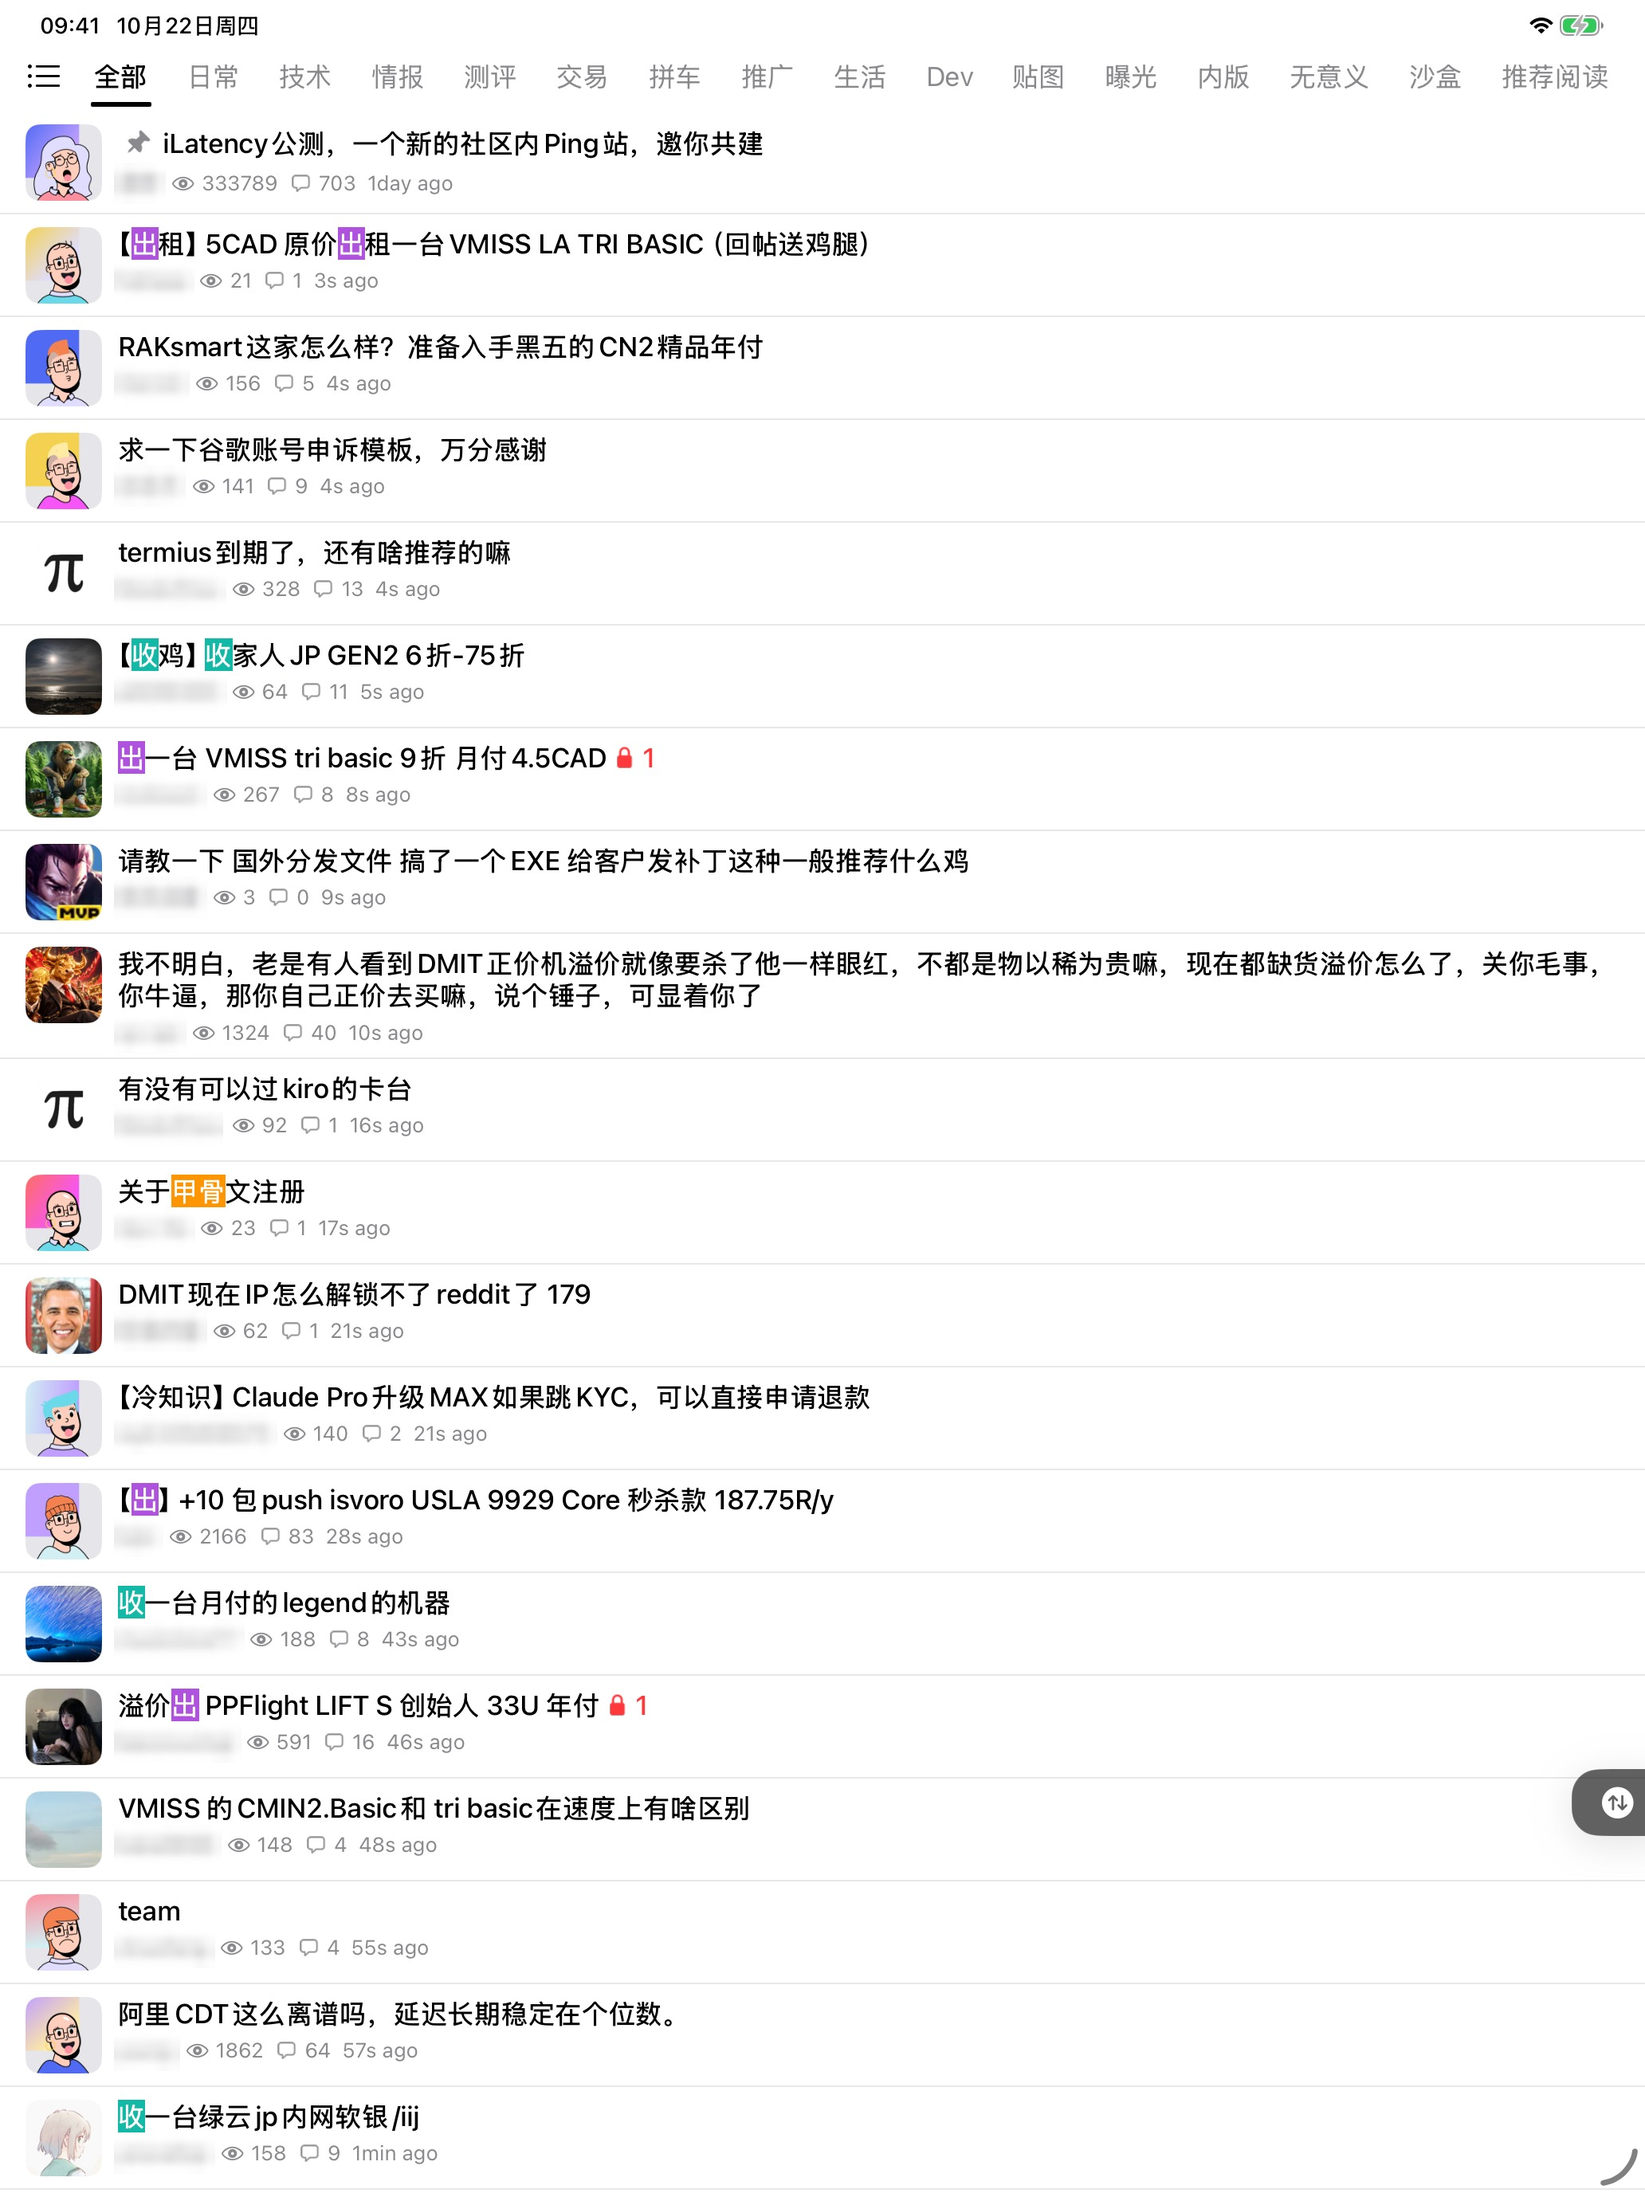
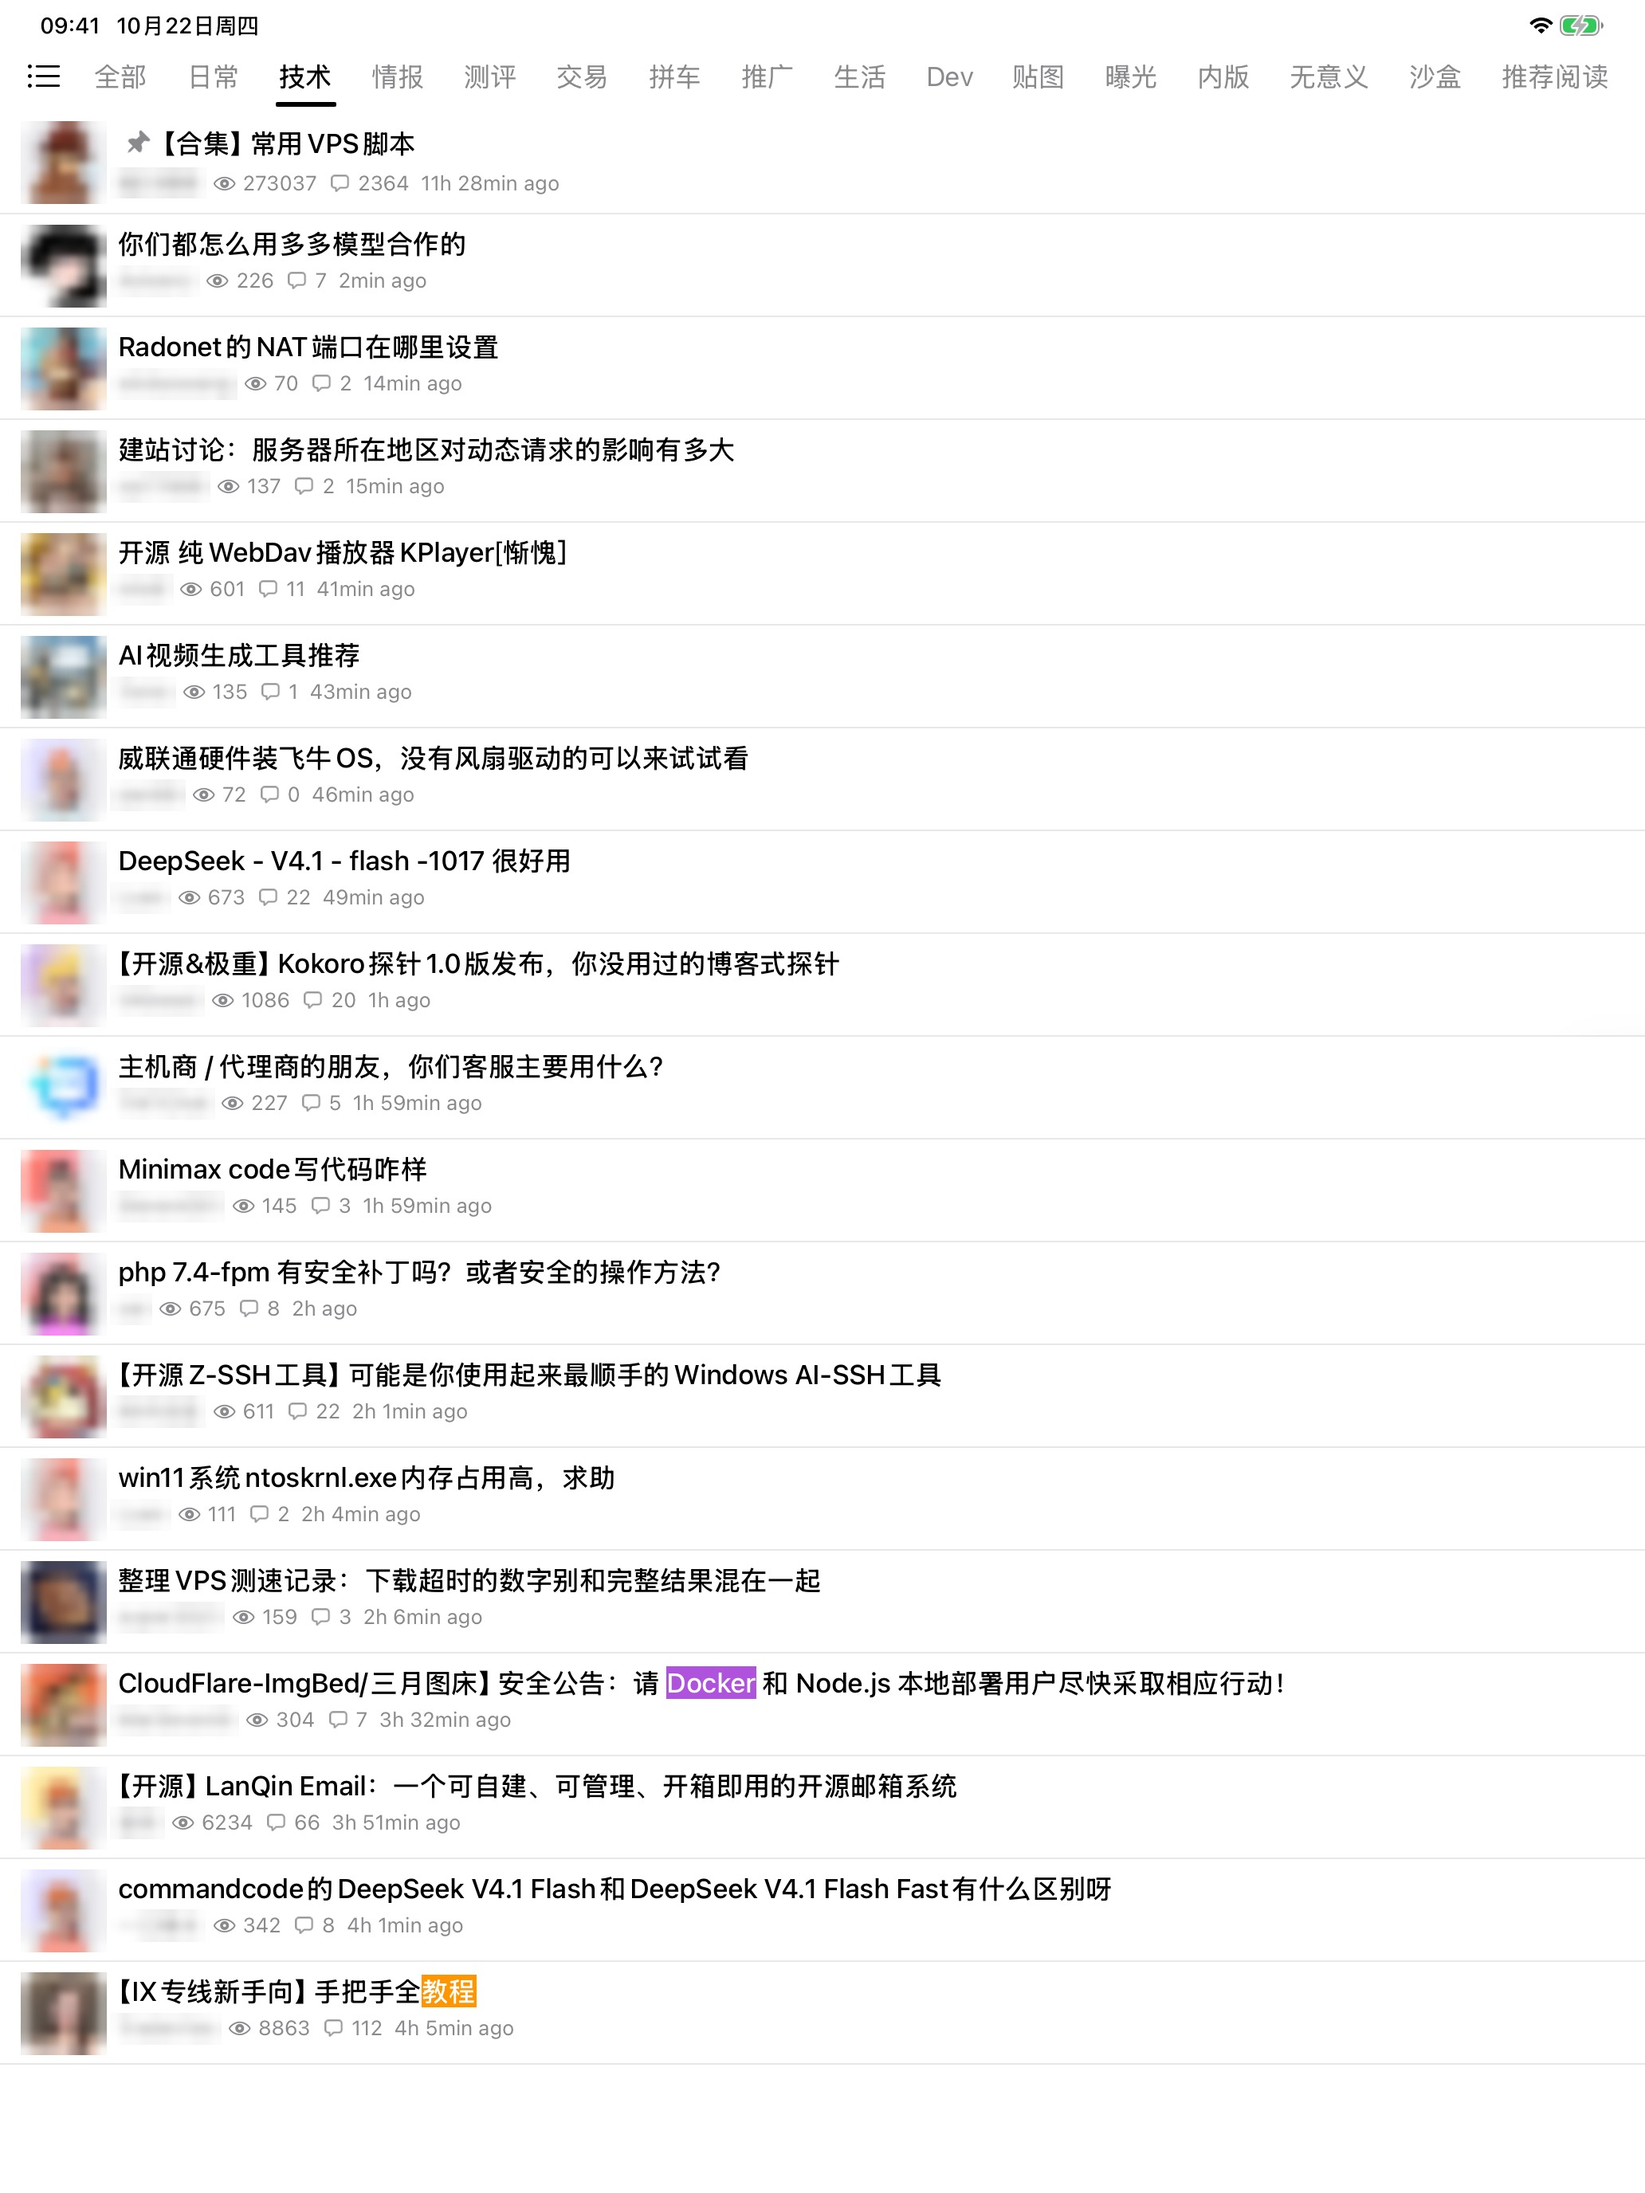
fix(appstore): 截图改用干净内容并给头像打码

diff --git a/tools/appstore-screenshots/compose.py b/tools/appstore-screenshots/compose.py
@@ -7,8 +7,9 @@
 
 设备：iphone 用 iPhone 17 Pro Max 模拟器原图（1320×2868），输出 1290×2796；
       ipad 用 iPad Pro 13-inch (M5) 模拟器原图（2064×2752），输出 2064×2752，文件名带 ipad- 前缀。
-<原图目录> 需包含 home.png、detail.png、nq.png、dark.png。打码区域按这批原图手工标定；
-重拍后名字位置会变，需要同步调整 BLUR_BOXES。不传 --raw 时直接用 raw/<设备>/ 里已打码的图。
+<原图目录> 需包含 home.png、detail.png、nq.png、dark.png。home.png 一般是 stitch_list.py 拼出的列表。
+首页按分隔线自动给每行的头像和用户名打码；其余页面的打码区域按这批原图手工标定，
+重拍后位置会变，需要同步调整 BLUR_BOXES。不传 --raw 时直接用 raw/<设备>/ 里已打码的图。
 App 界面只有简体中文，繁体版只换截图上的文案。
 """
 
@@ -21,44 +22,29 @@ from pathlib import Path
 
 from PIL import Image, ImageFilter
 
+from stitch_list import separators
+
 ROOT = Path(__file__).resolve().parent
 REPO = ROOT.parents[1]
 CHROME = "/Applications/Google Chrome.app/Contents/MacOS/Google Chrome"
 
+# 帖子列表的行内布局：分区栏下沿、头像相对行顶的区域、用户名起始 x、用户名和浏览数图标之间的最小空隙
+LIST_LAYOUT = {
+    "iphone": {"top": 300, "avatar": (40, 20, 210, 172), "text_x": 222, "gap": 20},
+    "ipad": {"top": 139, "avatar": (26, 13, 134, 117), "text_x": 146, "gap": 14},
+}
 
-def name_box(y, x_end, x_start=215, half=30):
-    return (x_start, y - half, x_end + 8, y + half)
-
-
-def ipad_name_box(y, x_end):
-    return name_box(y, x_end, x_start=143, half=26)
-
-
-# 只打发帖人的名字，坐标基于各设备原图
+# 头像和用户名，坐标基于各设备原图
 BLUR_BOXES = {
     "iphone": {
-        "home": [
-            name_box(495, 300), name_box(730, 338), name_box(961, 393),
-            name_box(1195, 279), name_box(1368, 438), name_box(1560, 320),
-            name_box(1754, 387), name_box(2007, 432), name_box(2178, 345),
-            name_box(2372, 378), name_box(2625, 413), name_box(2798, 426),
-        ],
-        "detail": [(190, 595, 298, 655)],
-        "nq": [(190, 626, 418, 690)],
-        "dark": [(670, 227, 748, 283)],
+        "detail": [(560, 210, 760, 295)],
+        "nq": [(42, 596, 172, 722), (190, 626, 418, 690)],
+        "dark": [(560, 210, 760, 295)],
     },
     "ipad": {
-        "home": [
-            ipad_name_box(y, x) for y, x in [
-                (230, 200), (352, 236), (481, 230), (610, 225), (739, 276),
-                (868, 277), (997, 252), (1126, 252), (1296, 226), (1412, 272),
-                (1541, 237), (1670, 252), (1799, 340), (1928, 197), (2057, 299),
-                (2186, 295), (2315, 270), (2444, 262), (2573, 218), (2702, 262),
-            ]
-        ],
-        "detail": [(126, 280, 200, 330)],
-        "nq": [(126, 300, 276, 354)],
-        "dark": [(126, 282, 170, 332)],
+        "detail": [(960, 75, 1110, 135)],
+        "nq": [(28, 286, 116, 370), (126, 300, 276, 354)],
+        "dark": [(960, 75, 1110, 135)],
     },
 }
 
@@ -69,8 +55,53 @@ DEVICES = {
 }
 
 
+def name_line(im, top, bottom, text_x, gap):
+    """一行帖子里最下面一行文字就是用户名那一行；用户名到浏览数图标之间有一段空白。"""
+    px = im.load()
+
+    def inked(x, y):
+        return sum(px[x, y]) < 690
+
+    band_bottom = next((y for y in range(bottom - 2, top, -1)
+                        if any(inked(x, y) for x in range(text_x, text_x + 500, 2))), None)
+    if band_bottom is None:
+        return None
+    band_top = band_bottom
+    while band_top > top and any(inked(x, band_top - 1) for x in range(text_x, text_x + 500, 2)):
+        band_top -= 1
+    x_end, blank = text_x, 0
+    for x in range(text_x, text_x + 800):
+        if any(inked(x, y) for y in range(band_top, band_bottom + 1)):
+            x_end, blank = x, 0
+        elif x_end > text_x:
+            blank += 1
+            if blank >= gap:
+                break
+    return (text_x - 8, band_top - 8, x_end + 10, band_bottom + 8)
+
+
+def list_boxes(im, device):
+    layout = LIST_LAYOUT[device]
+    width, height = im.size
+    seps = [s for s in separators(im) if s[0] >= layout["top"]]
+    tops = [layout["top"]] + [s[1] + 1 for s in seps]
+    bottoms = [s[0] for s in seps] + [height]
+    ax0, ay0, ax1, ay1 = layout["avatar"]
+    boxes = []
+    for top, bottom in zip(tops, bottoms):
+        if bottom - top < ay1 - ay0:
+            continue
+        boxes.append((ax0, top + ay0, ax1, min(top + ay1, bottom)))
+        name = name_line(im, top, bottom, layout["text_x"], layout["gap"])
+        if name:
+            boxes.append(name)
+    return boxes
+
+
 def pixelate(src: Path, dst: Path, boxes):
     im = Image.open(src).convert("RGB")
+    if callable(boxes):
+        boxes = boxes(im)
     for box in boxes:
         region = im.crop(box)
         w, h = region.size
@@ -116,12 +147,12 @@ COPY = {
             ("image", "NodeImage", "回帖一键传图"),
             ("sticker", "表情贴纸", "社区表情全都有"),
             ("recent", "最近浏览", "看过的随时找回"),
-            ("code", "开源免费", "代码全公开"),
+            ("code", "开源透明", "代码全公开"),
         ],
         "notifications": [
-            ("现在", "新回复", "有人在「iLatency 公测」里回复了你"),
-            ("3 分钟前", "有人 @ 了你", "「出 megabox pro，溢价加剩余」"),
-            ("12 分钟前", "新私信", "老哥这台小鸡还在吗？"),
+            ("现在", "新回复", "有人在「Debian 13 升级踩坑记录」里回复了你"),
+            ("3 分钟前", "有人 @ 了你", "「这个 Docker 配置可以参考一下」"),
+            ("12 分钟前", "新私信", "谢谢你的教程，已经跑起来了"),
         ],
     },
     "zh-Hant": {
@@ -141,12 +172,12 @@ COPY = {
             ("image", "NodeImage", "回帖一鍵傳圖"),
             ("sticker", "表情貼紙", "社群表情全都有"),
             ("recent", "最近瀏覽", "看過的隨時找回"),
-            ("code", "開源免費", "程式碼全公開"),
+            ("code", "開源透明", "程式碼全公開"),
         ],
         "notifications": [
-            ("現在", "新回覆", "有人在「iLatency 公測」裡回覆了你"),
-            ("3 分鐘前", "有人 @ 了你", "「出 megabox pro，溢價加剩餘」"),
-            ("12 分鐘前", "新私訊", "老哥這台小雞還在嗎？"),
+            ("現在", "新回覆", "有人在「Debian 13 升級踩坑記錄」裡回覆了你"),
+            ("3 分鐘前", "有人 @ 了你", "「這個 Docker 設定可以參考一下」"),
+            ("12 分鐘前", "新私訊", "謝謝你的教學，已經跑起來了"),
         ],
     },
 }
@@ -273,7 +304,7 @@ def main():
     parser.add_argument("--out", type=Path, required=True)
     args = parser.parse_args()
 
-    boxes = BLUR_BOXES[args.device]
+    boxes = {"home": lambda im: list_boxes(im, args.device), **BLUR_BOXES[args.device]}
     raw_dir = ROOT / "raw" / args.device
     raw_dir.mkdir(parents=True, exist_ok=True)
     if args.raw:

diff --git a/tools/appstore-screenshots/stitch_list.py b/tools/appstore-screenshots/stitch_list.py
@@ -1,0 +1,90 @@
+#!/usr/bin/env python3
+"""把几张帖子列表截图里挑出的行，按原样拼成一张列表截图。
+
+首页列表是实时内容，一屏里难免混进不适合放商店的帖子。这里只挑内容干净的行，
+每行都是 App 真实渲染的画面，不改动行内像素。
+
+用法：
+    python3 tools/appstore-screenshots/stitch_list.py --header home.png --out stitched.png \\
+        home.png:0 tech-1.png:1 tech-2.png:5
+先用 --list 查看每张图的行号和纵向范围：
+    python3 tools/appstore-screenshots/stitch_list.py --list home.png tech-1.png
+--header 那张图保留到第一条分隔线（状态栏、分区栏和第一行帖子），后面依次接上选中的行。
+行号只计算顶部完整露出的行（分隔线在 --top 以下）。
+"""
+
+import argparse
+from pathlib import Path
+
+from PIL import Image
+
+# 分区栏下沿：iPhone 17 Pro Max 为 300px，iPad Pro 13" 见调用方传入
+DEFAULT_TOP = 300
+
+
+def separators(im: Image.Image, x0=20, x1=1000):
+    """列表行之间的分隔线：一段横跨整行、颜色一致的浅灰像素。"""
+    px = im.load()
+    _, height = im.size
+    runs = []
+    for y in range(height):
+        color = px[x0, y]
+        if color == (255, 255, 255) or sum(color) <= 600:
+            continue
+        if all(px[x, y] == color for x in range(x0, x1, 37)):
+            if runs and y - runs[-1][1] <= 1:
+                runs[-1][1] = y
+            else:
+                runs.append([y, y])
+    return runs
+
+
+def cells(im: Image.Image, top: int):
+    seps = separators(im)
+    return [(seps[i][1] + 1, seps[i + 1][1] + 1) for i in range(len(seps) - 1) if seps[i][0] >= top]
+
+
+def main():
+    parser = argparse.ArgumentParser()
+    parser.add_argument("--list", nargs="+", type=Path, help="列出每张图的行号和纵向范围")
+    parser.add_argument("--header", type=Path)
+    parser.add_argument("--out", type=Path)
+    parser.add_argument("--top", type=int, default=DEFAULT_TOP)
+    parser.add_argument("picks", nargs="*", help="图片:行号")
+    args = parser.parse_args()
+
+    if args.list:
+        for path in args.list:
+            im = Image.open(path).convert("RGB")
+            print(path.name, [(i, a, b) for i, (a, b) in enumerate(cells(im, args.top))])
+        return
+
+    header = Image.open(args.header).convert("RGB")
+    width, height = header.size
+    first_sep = next(s for s in separators(header) if s[0] >= args.top)
+    canvas = Image.new("RGB", (width, height), (255, 255, 255))
+    canvas.paste(header.crop((0, 0, width, first_sep[1] + 1)), (0, 0))
+    y = first_sep[1] + 1
+
+    for pick in args.picks:
+        name, index = pick.rsplit(":", 1)
+        im = Image.open(name).convert("RGB")
+        top, bottom = cells(im, args.top)[int(index)]
+        cell = im.crop((0, top, width, bottom))
+        # 滚动中截的图右侧带滚动条，用同一行左边一点的颜色抹平
+        px = cell.load()
+        for row in range(cell.height):
+            color = px[width - 24, row]
+            for x in range(width - 20, width):
+                px[x, row] = color
+        canvas.paste(cell, (0, y))
+        y += bottom - top
+        if y >= height:
+            break
+
+    canvas.save(args.out)
+    print(f"✓ {args.out}（内容高度 {min(y, height)}/{height}）")
+
+
+if __name__ == "__main__":
+    main()
